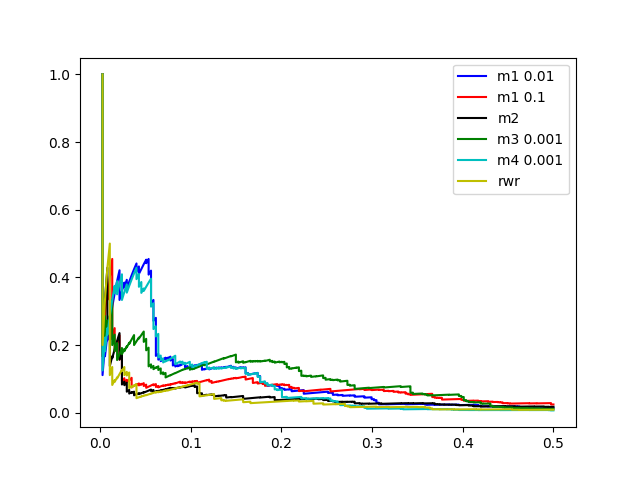
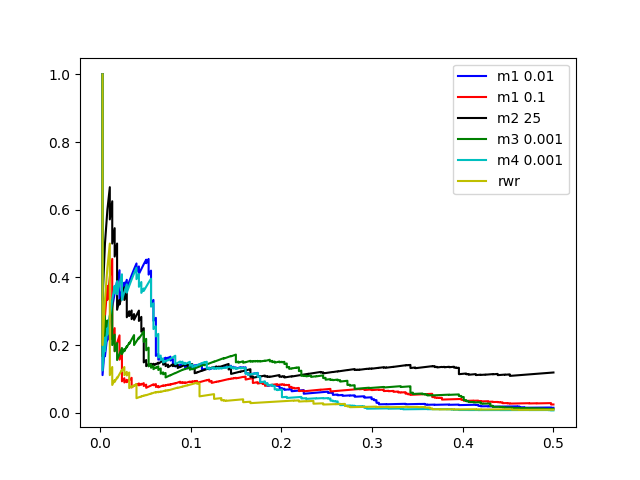
New results added

diff --git a/main.py b/main.py
@@ -18,6 +18,7 @@ targets_path = "data/Wnt/Wnt-targets.txt"
 pathway_path = "data/Wnt/Wnt-pathlinker-net.txt"
 
 
+# This method computes the edge weights based on the given method
 def compute_new_graph(method, alpha=0.0):
     if method == "m1":
         return np.array(
@@ -25,7 +26,7 @@ def compute_new_graph(method, alpha=0.0):
              graph])
     if method == "m2":
         return np.array(
-            [[int(edge[0]), int(edge[1]), math.pow(2, -float(length[edge[0]] + length[edge[1]]))] for edge in graph])
+            [[int(edge[0]), int(edge[1]), math.pow(2, -alpha * float(length[edge[0]] + length[edge[1]]))] for edge in graph])
     if method == "m3":
         return np.array(
             [[int(edge[0]), int(edge[1]), 1 / (length[edge[0]] * length[edge[1]] + alpha)] for edge in graph])
@@ -36,7 +37,7 @@ def compute_new_graph(method, alpha=0.0):
         return np.array([[int(edge[0]), int(edge[1]), math.pow(2, -float(edge[2]))] for edge in graph])
 
 
-def compute_recall_precision(sorted_edges, known_pathway, recall_bound=0.5):
+def compute_recall_precision(sorted_edges, known_pathway, recall_bound=1.0):
     recalls = []
     precisions = []
     tp = 0
@@ -65,7 +66,7 @@ def compute_edge_probs(adj_list, r):
 def run_random_walk(new_graph):
     ppr = PPR()
     ppr.read_graph(new_graph, True)
-    return ppr.compute(seeds, c=0.25, max_iters=1000)
+    return ppr.compute(seeds, c=0.10, max_iters=1000)
 
 
 def run_algorithm(method, color, alpha=0.0):
@@ -134,12 +135,13 @@ length = nx.multi_source_dijkstra_path_length(G, targets)
 max_length = max(length.values())
 
 
-run_algorithm(method="m1", color='b', alpha=0.01)
-run_algorithm(method="m1", color='r', alpha=0.1)
-run_algorithm(method="m2", color='k')
-run_algorithm(method="m3", color='g', alpha=0.001)
-run_algorithm(method="m4", color='c', alpha=0.001)
+# run_algorithm(method="m1", color='b', alpha=0.01)
+# run_algorithm(method="m1", color='r', alpha=0.1)
+# run_algorithm(method="m2", color='k', alpha=1)
+run_algorithm(method="m2", color='k', alpha=25)
+# run_algorithm(method="m3", color='g', alpha=0.001)
+# run_algorithm(method="m4", color='c', alpha=0.001)
 run_algorithm(method="rwr", color='y')
 plt.legend()
 
-plt.show()
+plt.savefig("full-10precent-pow25rwr.png")
